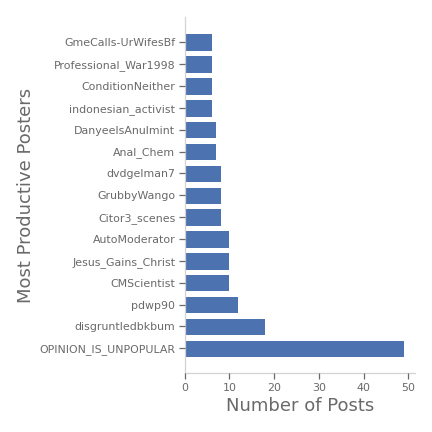
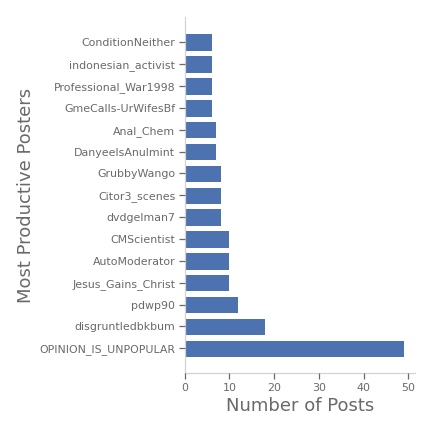
log log is my favorite flavor

diff --git a/README.md b/README.md
@@ -45,18 +45,18 @@ A total of 1408 submission authors are represented in the data. The plot below s
 | <a href=https://www.reddit.com/user/OPINION_IS_UNPOPULAR/>OPINION_IS_UNPOPULAR</a> | 49 |
 | <a href=https://www.reddit.com/user/disgruntledbkbum/>disgruntledbkbum</a> | 18 |
 | <a href=https://www.reddit.com/user/pdwp90/>pdwp90</a> | 12 |
-| <a href=https://www.reddit.com/user/CMScientist/>CMScientist</a> | 10 |
-| <a href=https://www.reddit.com/user/Jesus_Gains_Christ/>Jesus_Gains_Christ</a> | 10 |
 | <a href=https://www.reddit.com/user/AutoModerator/>AutoModerator</a> | 10 |
-| <a href=https://www.reddit.com/user/Citor3_scenes/>Citor3_scenes</a> | 8 |
-| <a href=https://www.reddit.com/user/GrubbyWango/>GrubbyWango</a> | 8 |
+| <a href=https://www.reddit.com/user/Jesus_Gains_Christ/>Jesus_Gains_Christ</a> | 10 |
+| <a href=https://www.reddit.com/user/CMScientist/>CMScientist</a> | 10 |
 | <a href=https://www.reddit.com/user/dvdgelman7/>dvdgelman7</a> | 8 |
+| <a href=https://www.reddit.com/user/GrubbyWango/>GrubbyWango</a> | 8 |
+| <a href=https://www.reddit.com/user/Citor3_scenes/>Citor3_scenes</a> | 8 |
 | <a href=https://www.reddit.com/user/Anal_Chem/>Anal_Chem</a> | 7 |
 | <a href=https://www.reddit.com/user/DanyeelsAnulmint/>DanyeelsAnulmint</a> | 7 |
-| <a href=https://www.reddit.com/user/indonesian_activist/>indonesian_activist</a> | 6 |
-| <a href=https://www.reddit.com/user/ConditionNeither/>ConditionNeither</a> | 6 |
-| <a href=https://www.reddit.com/user/Professional_War1998/>Professional_War1998</a> | 6 |
 | <a href=https://www.reddit.com/user/GmeCalls-UrWifesBf/>GmeCalls-UrWifesBf</a> | 6 |
+| <a href=https://www.reddit.com/user/Professional_War1998/>Professional_War1998</a> | 6 |
+| <a href=https://www.reddit.com/user/ConditionNeither/>ConditionNeither</a> | 6 |
+| <a href=https://www.reddit.com/user/indonesian_activist/>indonesian_activist</a> | 6 |
 
 # Some Initial Observations
 1. Stocks are sometimes written in capital letters in the middle of a word
@@ -117,10 +117,17 @@ No obvious relationship exists between score and submission age, but this is a c
 ![Figure](figures/num_comments_by_scoreNone.png)
 <Figure size 432x432 with 1 Axes>
 
-These figures show the relationship between a submission's score and the number of comments it's received. The figure seems to show three clusters of data points. For now, let's focus on those happening in scores less than 2000, as this seems to be the majority of submissions 83% and it looks like there might be a postive correlation between the two.
+These figures show the relationship between a submission's score and the number of comments it's received. The figure seems to show three clusters of data points. For now, let's focus on those happening in scores less than 2000, as this seems to be the majority of submissions (83%) and it looks like there might be a postive correlation between the two.
 
 ![Figure](figures/num_comments_by_score2000.png)
 <Figure size 432x432 with 1 Axes>
+
+Excluding scores greater than 2000, we can see a clear positive relationship between score and the number of comments. This relationship can be see even more clearly when the data are plotted in log-log coordinates:
+
+![Figure](figures/num_comments_by_score_logx_logy2000.png)
+<Figure size 432x432 with 1 Axes>
+
+
 
 
 ## Upvote Ratio vs. Num Comments
